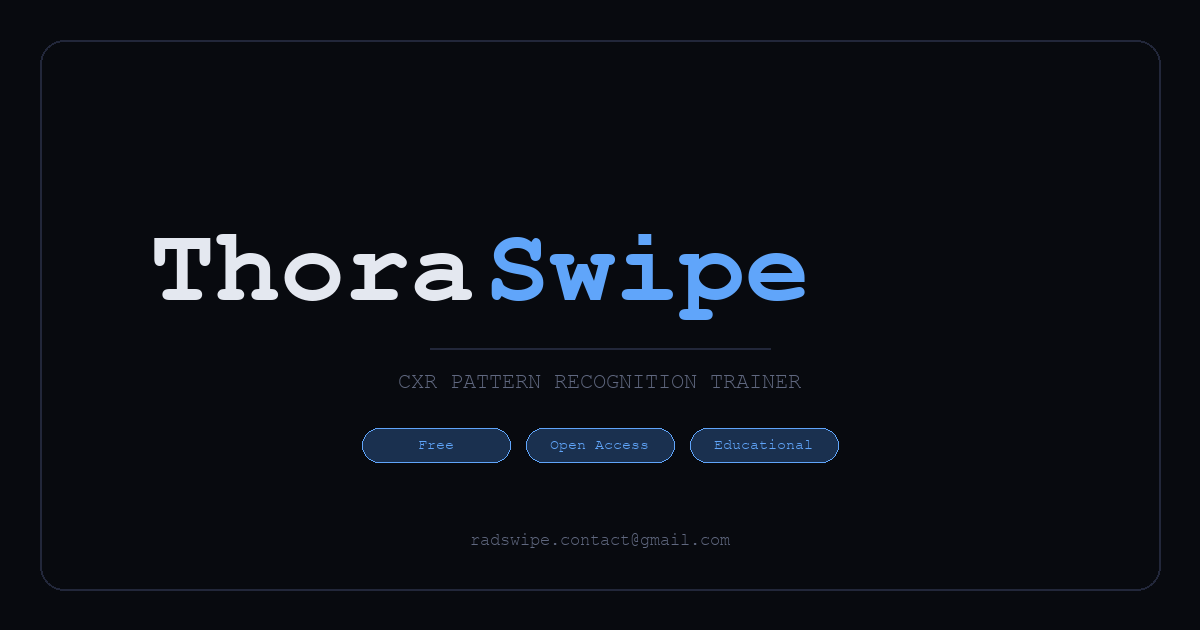
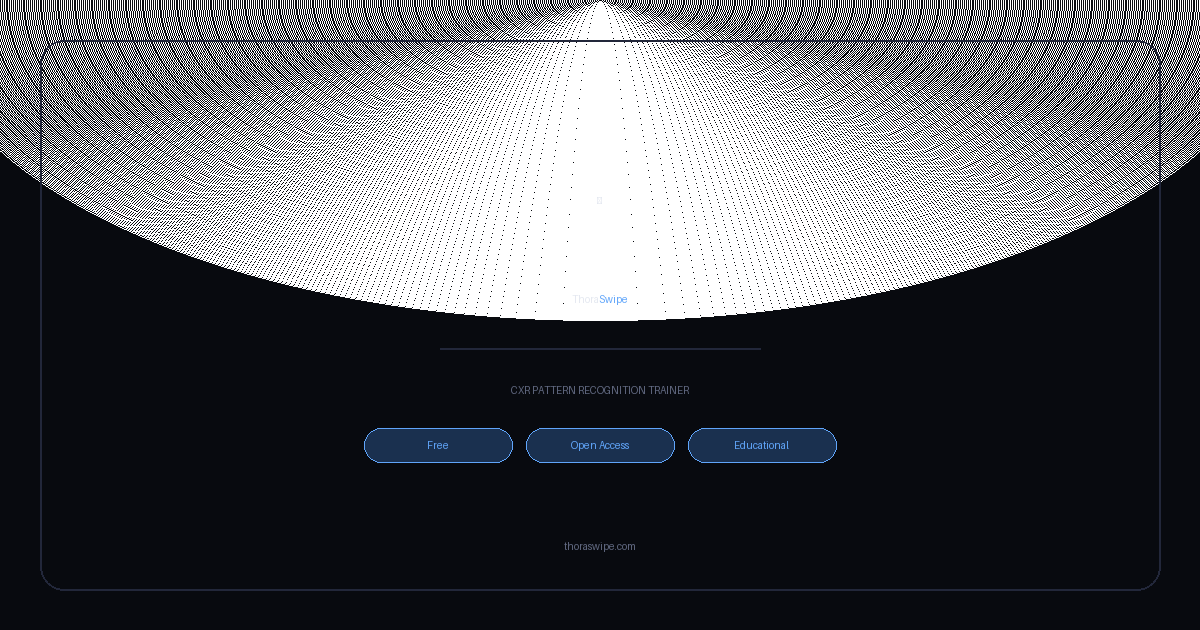
Security hardening: contact form, CSP, safePageUrl, headers, remove exposed email
- Replace 3 mailto links in contact page with Formspree contact form
  (submitContactForm() with topic dropdown + message textarea)
- Remove email from legal page; route attribution/legal links back to
  the contact form via hideLegal()
- Tighten safePageUrl() to whitelist only commons.wikimedia.org
- Add connect-src + form-action https://formspree.io to CSP meta tag
- Add vercel.json with X-Content-Type-Options, X-Frame-Options,
  Referrer-Policy, Permissions-Policy, HSTS, and CSP response headers
- Remove radswipe.contact@gmail.com from og-image.svg; replace with
  thoraswipe.com; regenerate og-image.png

NOTE: replace REPLACE_WITH_YOUR_FORMSPREE_ID in submitContactForm()
with your real Formspree endpoint ID before pushing.

diff --git a/cxr-swipe-v7.html b/cxr-swipe-v7.html
@@ -4,7 +4,7 @@
 <meta charset="UTF-8">
 <meta name="viewport" content="width=device-width, initial-scale=1.0">
 <meta name="referrer" content="no-referrer">
-<meta http-equiv="Content-Security-Policy" content="default-src 'none'; style-src 'unsafe-inline' https://fonts.googleapis.com; font-src https://fonts.gstatic.com; img-src https://upload.wikimedia.org data:; script-src 'unsafe-inline'; base-uri 'none'; form-action 'none'; frame-ancestors 'none';">
+<meta http-equiv="Content-Security-Policy" content="default-src 'none'; style-src 'unsafe-inline' https://fonts.googleapis.com; font-src https://fonts.gstatic.com; img-src https://upload.wikimedia.org data:; script-src 'unsafe-inline'; connect-src https://formspree.io; base-uri 'none'; form-action https://formspree.io; frame-ancestors 'none';">
 <title>ThoraSwipe — CXR Trainer</title>
 
 <!-- SEO & share preview ─────────────────────────────────────────── -->
@@ -248,7 +248,18 @@ main{flex:1;width:100%;max-width:480px;display:flex;flex-direction:column;align-
 .legal-section ul li{font-size:12px;color:var(--muted);line-height:1.75;margin-bottom:4px}
 .legal-warn{background:rgba(239,68,68,.07);border-color:rgba(239,68,68,.25)}
 .legal-warn .legal-section-title{color:var(--red)}
-.legal-footer-link{display:inline-flex;align-items:center;gap:6px;font-size:12px;font-weight:600;color:var(--blue);text-decoration:none;background:var(--blue-dim);border:1px solid rgba(96,165,250,.25);border-radius:10px;padding:8px 16px;margin-top:4px;transition:background .2s}
+.legal-footer-link{display:inline-flex;align-items:center;gap:6px;font-size:12px;font-weight:600;color:var(--blue);text-decoration:none;background:var(--blue-dim);border:1px solid rgba(96,165,250,.25);border-radius:10px;padding:8px 16px;margin-top:4px;transition:background .2s;cursor:pointer}
+/* ── Contact form ─────────────────────────────────────────────────── */
+.cf-select,.cf-textarea{display:block;width:100%;background:var(--card);border:1px solid var(--border);border-radius:10px;color:var(--text);font-family:'Sora',sans-serif;font-size:13px;padding:11px 14px;margin-bottom:10px;outline:none;box-sizing:border-box;transition:border-color .2s;-webkit-appearance:none;appearance:none}
+.cf-select:focus,.cf-textarea:focus{border-color:rgba(96,165,250,.5)}
+.cf-select option{background:var(--card)}
+.cf-textarea{resize:vertical;min-height:100px;line-height:1.6}
+.cf-submit{width:100%;height:44px;background:var(--blue);border:none;border-radius:10px;color:#fff;font-family:'Space Mono',monospace;font-size:12px;font-weight:700;letter-spacing:.5px;cursor:pointer;transition:opacity .2s;margin-top:2px}
+.cf-submit:hover{opacity:.85}
+.cf-submit:disabled{opacity:.4;cursor:default}
+.cf-status{font-size:12px;text-align:center;min-height:18px;margin-top:8px}
+.cf-status.ok{color:var(--green)}.cf-status.err{color:var(--red)}
+.cf-inline-link{background:none;border:none;color:var(--blue);font-family:inherit;font-size:inherit;cursor:pointer;padding:0;text-decoration:underline}
 .legal-footer-link:hover{background:rgba(96,165,250,.2)}
 
 /* header info button */
@@ -397,33 +408,19 @@ main{flex:1;width:100%;max-width:480px;display:flex;flex-direction:column;align-
     <p class="muted">Cases are curated from open-access published literature. All images are sourced from Wikimedia Commons under open licences (CC0, CC BY, and CC BY-SA).</p>
   </div>
 
-  <div class="cp-row">
-    <a class="cp-link" href="mailto:radswipe.contact@gmail.com">
-      <div class="cp-link-icon blue">✉</div>
-      <div class="cp-link-body">
-        <div class="cp-link-label">Email Us</div>
-        <div class="cp-link-sub">radswipe.contact@gmail.com</div>
-      </div>
-      <div class="cp-link-arrow">›</div>
-    </a>
-
-    <a class="cp-link" href="mailto:radswipe.contact@gmail.com?subject=Bug%20Report%20%2F%20Issue&body=Case%20affected%3A%0ADescribe%20the%20issue%3A">
-      <div class="cp-link-icon gold">⚑</div>
-      <div class="cp-link-body">
-        <div class="cp-link-label">Report a Case Error</div>
-        <div class="cp-link-sub">Wrong annotation, incorrect diagnosis, image issue</div>
-      </div>
-      <div class="cp-link-arrow">›</div>
-    </a>
-
-    <a class="cp-link" href="mailto:radswipe.contact@gmail.com?subject=Case%20Suggestion">
-      <div class="cp-link-icon green">＋</div>
-      <div class="cp-link-body">
-        <div class="cp-link-label">Suggest a Case</div>
-        <div class="cp-link-sub">Submit a teaching case for review</div>
-      </div>
-      <div class="cp-link-arrow">›</div>
-    </a>
+  <div class="cp-card" style="margin-bottom:0">
+    <div class="cp-card-title">Contact Us</div>
+    <select class="cf-select" id="cf-type" aria-label="Message type">
+      <option value="">— Select a topic —</option>
+      <option value="General">General / Say hello</option>
+      <option value="Bug Report">Report a case error or bug</option>
+      <option value="Case Suggestion">Suggest a new case</option>
+      <option value="Attribution Enquiry">Image attribution enquiry</option>
+      <option value="Legal Enquiry">Legal enquiry</option>
+    </select>
+    <textarea class="cf-textarea" id="cf-msg" placeholder="Your message…" aria-label="Message"></textarea>
+    <button class="cf-submit" id="cf-submit" onclick="submitContactForm()">Send Message</button>
+    <div class="cf-status" id="cf-status"></div>
   </div>
 
   <div class="cp-divider"></div>
@@ -491,13 +488,13 @@ main{flex:1;width:100%;max-width:480px;display:flex;flex-direction:column;align-
     </ul>
     <p class="muted">The specific licence for each image is shown in the credit on each case card. Original authors are credited within each case.</p>
     <p class="muted">If you believe any image has been used incorrectly or you are the rights holder and wish to request removal, please contact us.</p>
-    <a class="legal-footer-link" href="mailto:radswipe.contact@gmail.com?subject=Image%20Attribution%20Enquiry">✉ Contact regarding attribution</a>
+    <button class="legal-footer-link" onclick="hideLegal()">✉ Contact regarding attribution</button>
   </div>
 
   <div class="legal-section">
     <div class="legal-section-title">Governing Law</div>
     <p class="muted">These terms are governed by applicable law. Any disputes arising from the use of ThoraSwipe shall be resolved in accordance with the laws of the jurisdiction in which the developers are based.</p>
-    <p class="muted">For any legal enquiries, contact: <strong style="color:var(--text)">radswipe.contact@gmail.com</strong></p>
+    <p class="muted">For any legal enquiries, please <button class="cf-inline-link" onclick="hideLegal()">use the contact form</button>.</p>
   </div>
 </div>
 
@@ -1139,7 +1136,7 @@ function safeImgUrl(url){
   return(typeof url==='string'&&url.startsWith('https://upload.wikimedia.org/'))?url:'';
 }
 function safePageUrl(url){
-  return(typeof url==='string'&&url.startsWith('https://'))?url:'';
+  return(typeof url==='string'&&url.startsWith('https://commons.wikimedia.org/'))?url:'';
 }
 
 // ─── SVG CLONE (avoids innerHTML string manipulation) ────────────────
@@ -1599,6 +1596,40 @@ function showLegal(){
 function hideLegal(){
   document.getElementById('legal-page').classList.remove('show');
   document.getElementById('contact-page').classList.add('show');
+}
+
+// ─── CONTACT FORM ────────────────────────────────────────────────────
+async function submitContactForm(){
+  const typeEl=document.getElementById('cf-type');
+  const msgEl=document.getElementById('cf-msg');
+  const btn=document.getElementById('cf-submit');
+  const status=document.getElementById('cf-status');
+  const type=typeEl.value.trim();
+  const msg=msgEl.value.trim();
+  status.className='cf-status';
+  status.textContent='';
+  if(!type){status.className='cf-status err';status.textContent='Please select a topic.';return;}
+  if(msg.length<10){status.className='cf-status err';status.textContent='Message is too short.';return;}
+  btn.disabled=true;
+  btn.textContent='Sending…';
+  try{
+    const res=await fetch('https://formspree.io/f/REPLACE_WITH_YOUR_FORMSPREE_ID',{
+      method:'POST',
+      headers:{'Content-Type':'application/json','Accept':'application/json'},
+      body:JSON.stringify({topic:type,message:msg})
+    });
+    if(res.ok){
+      status.className='cf-status ok';
+      status.textContent='Message sent — thanks! We\'ll be in touch.';
+      typeEl.value='';msgEl.value='';
+    } else {
+      throw new Error('server');
+    }
+  }catch(e){
+    status.className='cf-status err';
+    status.textContent='Failed to send — please try again.';
+  }
+  btn.disabled=false;btn.textContent='Send Message';
 }
 
 // ─── SWIPE / DRAG ────────────────────────────────────────────────────

diff --git a/index.html b/index.html
@@ -4,7 +4,7 @@
 <meta charset="UTF-8">
 <meta name="viewport" content="width=device-width, initial-scale=1.0">
 <meta name="referrer" content="no-referrer">
-<meta http-equiv="Content-Security-Policy" content="default-src 'none'; style-src 'unsafe-inline' https://fonts.googleapis.com; font-src https://fonts.gstatic.com; img-src https://upload.wikimedia.org data:; script-src 'unsafe-inline'; base-uri 'none'; form-action 'none'; frame-ancestors 'none';">
+<meta http-equiv="Content-Security-Policy" content="default-src 'none'; style-src 'unsafe-inline' https://fonts.googleapis.com; font-src https://fonts.gstatic.com; img-src https://upload.wikimedia.org data:; script-src 'unsafe-inline'; connect-src https://formspree.io; base-uri 'none'; form-action https://formspree.io; frame-ancestors 'none';">
 <title>ThoraSwipe — CXR Trainer</title>
 
 <!-- SEO & share preview ─────────────────────────────────────────── -->
@@ -248,7 +248,18 @@ main{flex:1;width:100%;max-width:480px;display:flex;flex-direction:column;align-
 .legal-section ul li{font-size:12px;color:var(--muted);line-height:1.75;margin-bottom:4px}
 .legal-warn{background:rgba(239,68,68,.07);border-color:rgba(239,68,68,.25)}
 .legal-warn .legal-section-title{color:var(--red)}
-.legal-footer-link{display:inline-flex;align-items:center;gap:6px;font-size:12px;font-weight:600;color:var(--blue);text-decoration:none;background:var(--blue-dim);border:1px solid rgba(96,165,250,.25);border-radius:10px;padding:8px 16px;margin-top:4px;transition:background .2s}
+.legal-footer-link{display:inline-flex;align-items:center;gap:6px;font-size:12px;font-weight:600;color:var(--blue);text-decoration:none;background:var(--blue-dim);border:1px solid rgba(96,165,250,.25);border-radius:10px;padding:8px 16px;margin-top:4px;transition:background .2s;cursor:pointer}
+/* ── Contact form ─────────────────────────────────────────────────── */
+.cf-select,.cf-textarea{display:block;width:100%;background:var(--card);border:1px solid var(--border);border-radius:10px;color:var(--text);font-family:'Sora',sans-serif;font-size:13px;padding:11px 14px;margin-bottom:10px;outline:none;box-sizing:border-box;transition:border-color .2s;-webkit-appearance:none;appearance:none}
+.cf-select:focus,.cf-textarea:focus{border-color:rgba(96,165,250,.5)}
+.cf-select option{background:var(--card)}
+.cf-textarea{resize:vertical;min-height:100px;line-height:1.6}
+.cf-submit{width:100%;height:44px;background:var(--blue);border:none;border-radius:10px;color:#fff;font-family:'Space Mono',monospace;font-size:12px;font-weight:700;letter-spacing:.5px;cursor:pointer;transition:opacity .2s;margin-top:2px}
+.cf-submit:hover{opacity:.85}
+.cf-submit:disabled{opacity:.4;cursor:default}
+.cf-status{font-size:12px;text-align:center;min-height:18px;margin-top:8px}
+.cf-status.ok{color:var(--green)}.cf-status.err{color:var(--red)}
+.cf-inline-link{background:none;border:none;color:var(--blue);font-family:inherit;font-size:inherit;cursor:pointer;padding:0;text-decoration:underline}
 .legal-footer-link:hover{background:rgba(96,165,250,.2)}
 
 /* header info button */
@@ -397,33 +408,19 @@ main{flex:1;width:100%;max-width:480px;display:flex;flex-direction:column;align-
     <p class="muted">Cases are curated from open-access published literature. All images are sourced from Wikimedia Commons under open licences (CC0, CC BY, and CC BY-SA).</p>
   </div>
 
-  <div class="cp-row">
-    <a class="cp-link" href="mailto:radswipe.contact@gmail.com">
-      <div class="cp-link-icon blue">✉</div>
-      <div class="cp-link-body">
-        <div class="cp-link-label">Email Us</div>
-        <div class="cp-link-sub">radswipe.contact@gmail.com</div>
-      </div>
-      <div class="cp-link-arrow">›</div>
-    </a>
-
-    <a class="cp-link" href="mailto:radswipe.contact@gmail.com?subject=Bug%20Report%20%2F%20Issue&body=Case%20affected%3A%0ADescribe%20the%20issue%3A">
-      <div class="cp-link-icon gold">⚑</div>
-      <div class="cp-link-body">
-        <div class="cp-link-label">Report a Case Error</div>
-        <div class="cp-link-sub">Wrong annotation, incorrect diagnosis, image issue</div>
-      </div>
-      <div class="cp-link-arrow">›</div>
-    </a>
-
-    <a class="cp-link" href="mailto:radswipe.contact@gmail.com?subject=Case%20Suggestion">
-      <div class="cp-link-icon green">＋</div>
-      <div class="cp-link-body">
-        <div class="cp-link-label">Suggest a Case</div>
-        <div class="cp-link-sub">Submit a teaching case for review</div>
-      </div>
-      <div class="cp-link-arrow">›</div>
-    </a>
+  <div class="cp-card" style="margin-bottom:0">
+    <div class="cp-card-title">Contact Us</div>
+    <select class="cf-select" id="cf-type" aria-label="Message type">
+      <option value="">— Select a topic —</option>
+      <option value="General">General / Say hello</option>
+      <option value="Bug Report">Report a case error or bug</option>
+      <option value="Case Suggestion">Suggest a new case</option>
+      <option value="Attribution Enquiry">Image attribution enquiry</option>
+      <option value="Legal Enquiry">Legal enquiry</option>
+    </select>
+    <textarea class="cf-textarea" id="cf-msg" placeholder="Your message…" aria-label="Message"></textarea>
+    <button class="cf-submit" id="cf-submit" onclick="submitContactForm()">Send Message</button>
+    <div class="cf-status" id="cf-status"></div>
   </div>
 
   <div class="cp-divider"></div>
@@ -491,13 +488,13 @@ main{flex:1;width:100%;max-width:480px;display:flex;flex-direction:column;align-
     </ul>
     <p class="muted">The specific licence for each image is shown in the credit on each case card. Original authors are credited within each case.</p>
     <p class="muted">If you believe any image has been used incorrectly or you are the rights holder and wish to request removal, please contact us.</p>
-    <a class="legal-footer-link" href="mailto:radswipe.contact@gmail.com?subject=Image%20Attribution%20Enquiry">✉ Contact regarding attribution</a>
+    <button class="legal-footer-link" onclick="hideLegal()">✉ Contact regarding attribution</button>
   </div>
 
   <div class="legal-section">
     <div class="legal-section-title">Governing Law</div>
     <p class="muted">These terms are governed by applicable law. Any disputes arising from the use of ThoraSwipe shall be resolved in accordance with the laws of the jurisdiction in which the developers are based.</p>
-    <p class="muted">For any legal enquiries, contact: <strong style="color:var(--text)">radswipe.contact@gmail.com</strong></p>
+    <p class="muted">For any legal enquiries, please <button class="cf-inline-link" onclick="hideLegal()">use the contact form</button>.</p>
   </div>
 </div>
 
@@ -1139,7 +1136,7 @@ function safeImgUrl(url){
   return(typeof url==='string'&&url.startsWith('https://upload.wikimedia.org/'))?url:'';
 }
 function safePageUrl(url){
-  return(typeof url==='string'&&url.startsWith('https://'))?url:'';
+  return(typeof url==='string'&&url.startsWith('https://commons.wikimedia.org/'))?url:'';
 }
 
 // ─── SVG CLONE (avoids innerHTML string manipulation) ────────────────
@@ -1599,6 +1596,40 @@ function showLegal(){
 function hideLegal(){
   document.getElementById('legal-page').classList.remove('show');
   document.getElementById('contact-page').classList.add('show');
+}
+
+// ─── CONTACT FORM ────────────────────────────────────────────────────
+async function submitContactForm(){
+  const typeEl=document.getElementById('cf-type');
+  const msgEl=document.getElementById('cf-msg');
+  const btn=document.getElementById('cf-submit');
+  const status=document.getElementById('cf-status');
+  const type=typeEl.value.trim();
+  const msg=msgEl.value.trim();
+  status.className='cf-status';
+  status.textContent='';
+  if(!type){status.className='cf-status err';status.textContent='Please select a topic.';return;}
+  if(msg.length<10){status.className='cf-status err';status.textContent='Message is too short.';return;}
+  btn.disabled=true;
+  btn.textContent='Sending…';
+  try{
+    const res=await fetch('https://formspree.io/f/REPLACE_WITH_YOUR_FORMSPREE_ID',{
+      method:'POST',
+      headers:{'Content-Type':'application/json','Accept':'application/json'},
+      body:JSON.stringify({topic:type,message:msg})
+    });
+    if(res.ok){
+      status.className='cf-status ok';
+      status.textContent='Message sent — thanks! We\'ll be in touch.';
+      typeEl.value='';msgEl.value='';
+    } else {
+      throw new Error('server');
+    }
+  }catch(e){
+    status.className='cf-status err';
+    status.textContent='Failed to send — please try again.';
+  }
+  btn.disabled=false;btn.textContent='Send Message';
 }
 
 // ─── SWIPE / DRAG ────────────────────────────────────────────────────
